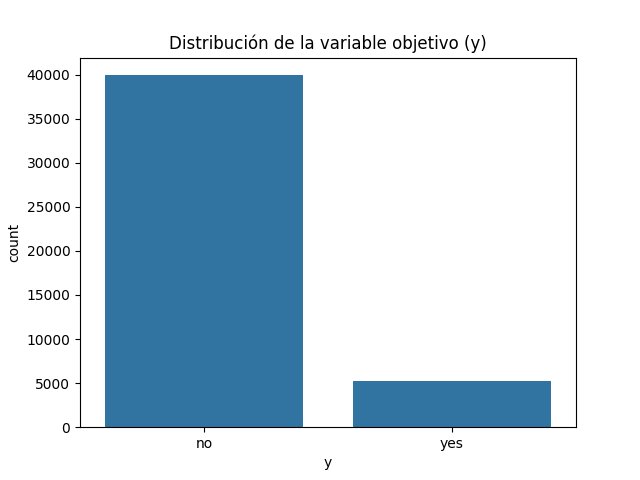
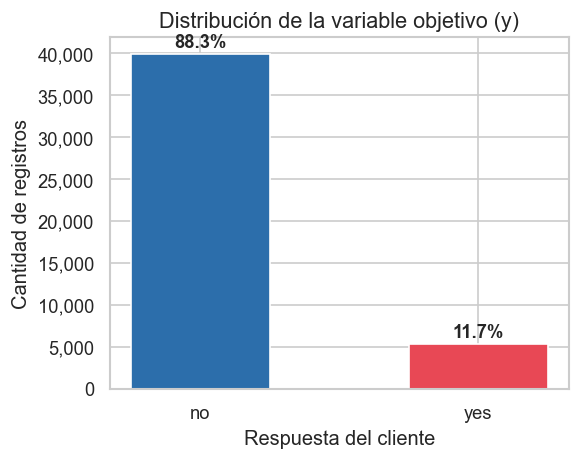
fix: Correction of points for delivery 1

Changed region(s): [[0.0, 0.0304, 0.9931, 0.9739]]

diff --git a/README.md b/README.md
@@ -1,24 +1,166 @@
-# Bank Marketing - Machine Learning Project
+# Predicción de aceptación de depósito bancario — Bank Marketing
+
+**Curso:** Aprendizaje de Máquina Aplicado — EAFIT 2026  
+**Estudiantes:** Sofia Rodriguez · Mariana Gutierrez · Esteban Giraldo  
+**Dataset:** Bank Marketing Dataset (UCI Machine Learning Repository)  
+**Tarea:** Clasificación binaria supervisada  
+**Semilla global:** `RANDOM_STATE = 42`
+
+---
 
 ## Descripción
-Proyecto de clasificación supervisada para predecir si un cliente aceptará un depósito a término usando el Bank Marketing Dataset (UCI).
 
-## Contenido
-- EDA y baseline en notebook
-- Reporte en LaTeX (PDF incluido)
+Proyecto orientado a predecir si un cliente bancario aceptará o no
+una oferta de depósito a término a partir de variables demográficas,
+financieras y de interacción con campañas de marketing previas,
+siguiendo el flujo de trabajo CRISP-DM.
 
-## Dataset
-UCI Machine Learning Repository:
-https://archive.ics.uci.edu/ml/datasets/Bank+Marketing
+El problema se formula como una tarea de clasificación binaria supervisada,
+donde la variable objetivo `y` toma los valores:
 
-## Cómo ejecutar
-```bash
-pip install -r requirements.txt
-jupyter notebook
+- `yes` → el cliente acepta el depósito
+- `no` → el cliente no acepta el depósito
+
+**Pregunta de investigación:**  
+¿Es posible predecir si un cliente aceptará un depósito a término
+a partir de variables demográficas, financieras y de campañas previas,
+logrando un ROC-AUC superior a 0.85 en el conjunto de prueba?
+
+---
+
+## Estructura del repositorio
+
+```text
+MLA-project/
+├── README.md                  # Punto de entrada del repositorio.
+│                              # Explica el proyecto, cómo reproducirlo
+│                              # y el estado de cada entrega
+│
+├── environment.yml            # Entorno reproducible con dependencias
+│                              # necesarias para ejecutar el proyecto
+│
+├── data/
+│   ├── bank-full.csv               # Dataset principal utilizado en el proyecto
+│   └── README.md              # Información sobre el dataset y su origen
+│
+├── notebooks/
+│   └── eda_baseline.ipynb  # Notebook principal de la Entrega 1:
+│                              # carga de datos, limpieza inicial,
+│                              # EDA, separación train/test y baseline
+│
+├── figures/                   # Figuras generadas automáticamente
+│   ├── fig1_target_dist.png       # Distribución de la variable objetivo
+│   ├── fig2_features_dist.png     # Distribución de variables numéricas
+│   ├── fig3_correlations.png       # Matriz de correlaciones
+│   └── fig4_map.png       # 
+│
+├── report/
+│   ├── datacard.md            # Descripción estructurada del dataset:
+│   │                          # variables, limitaciones y riesgos
+│   └── reporte_entrega1.pdf   # Reporte técnico completo
+│
+└── poster/                    # Vacío por ahora. Contendrá la síntesis visual 
+                               # del proyecto para la Entrega 3
+
 ```
 
-## Resultados baseline
+---
 
-- Accuracy: ~0.90
-- ROC-AUC: ~0.90
-- F1-score (clase positiva): bajo debido al desbalance
+## Prerequisitos
+
+Antes de comenzar necesitas tener instalado:
+
+- [conda](https://docs.anaconda.com/miniconda/) (Miniconda o Anaconda)
+Con esta herramienta gestionamos el entorno y las dependencias.
+
+Para verificar que los tienes disponibles ejecuta:
+
+    conda --version
+
+## Cómo reproducir los resultados
+
+### 1. Clona el repositorio
+```bash
+git clone https://github.com/Egiraldol/MLA_Project.git
+```
+
+### 2. Crea y activa el entorno
+```bash
+    conda env create -f environment.yml
+    conda activate mla-project
+```
+
+Deberías ver (mla-project) al inicio de tu terminal.
+Si el entorno ya existe y quieres recrearlo:
+    conda env remove -n mla-project
+    conda env create -f environment.yml
+
+### 3. Lanza Jupyter
+    jupyter notebook
+
+Esto abre el navegador automáticamente.
+Si no abre, copia la URL que aparece en la terminal.
+
+### 4. Ejecuta el notebook
+Abre notebooks/eda_baseline.ipynb
+Ejecuta todas las celdas con Kernel > Restart & Run All
+
+Las figuras se guardan automáticamente en figures/
+
+---
+
+## Resultados por entrega
+
+### Entrega 1 — Baseline
+| Modelo           | Accuracy   | F1-score   | ROC-AUC |
+|------------------|------------|------------|---------|
+| DummyClassifier  | ~0.88      | 0.00       | 0.50    |
+
+### Entrega 2 — Comparación de modelos
+| Modelo    |  Accuracy   | F1-score   | ROC-AUC |
+|-----------|-------------|------------|---------|
+| *Pendiente* | — | —  | —  |
+
+### Entrega 3 — Modelo final
+| Modelo    |  Accuracy   | F1-score   | ROC-AUC |
+|-----------|-----|------|----|
+| *Pendiente* | — | —  | —  |
+
+---
+
+## Próximos pasos
+
+En las siguientes etapas del proyecto se explorarán:
+
+- Regresión logística
+- Árboles de decisión
+- Random Forest
+- Gradient Boosting
+
+También se evaluarán técnicas para:
+
+- manejo de desbalance,
+- validación cruzada,
+- codificación de variables categóricas,
+- escalado,
+- selección de variables,
+- reducción de leakage.
+
+---
+
+## Referencias
+
+- Moro, S., Cortez, P., y Rita, P. (2014).
+  A Data-Driven Approach to Predict the Success of Bank Telemarketing.
+  Decision Support Systems, 62, 22–31.
+
+- Pedregosa et al. (2011).
+  Scikit-learn: Machine Learning in Python.
+  JMLR, 12, 2825–2830.
+
+- James, G., Witten, D., Hastie, T. y Tibshirani, R. (2021).
+  An Introduction to Statistical Learning.
+  Springer.
+  
+- UCI Machine Learning Repository.
+  Bank Marketing Dataset.
